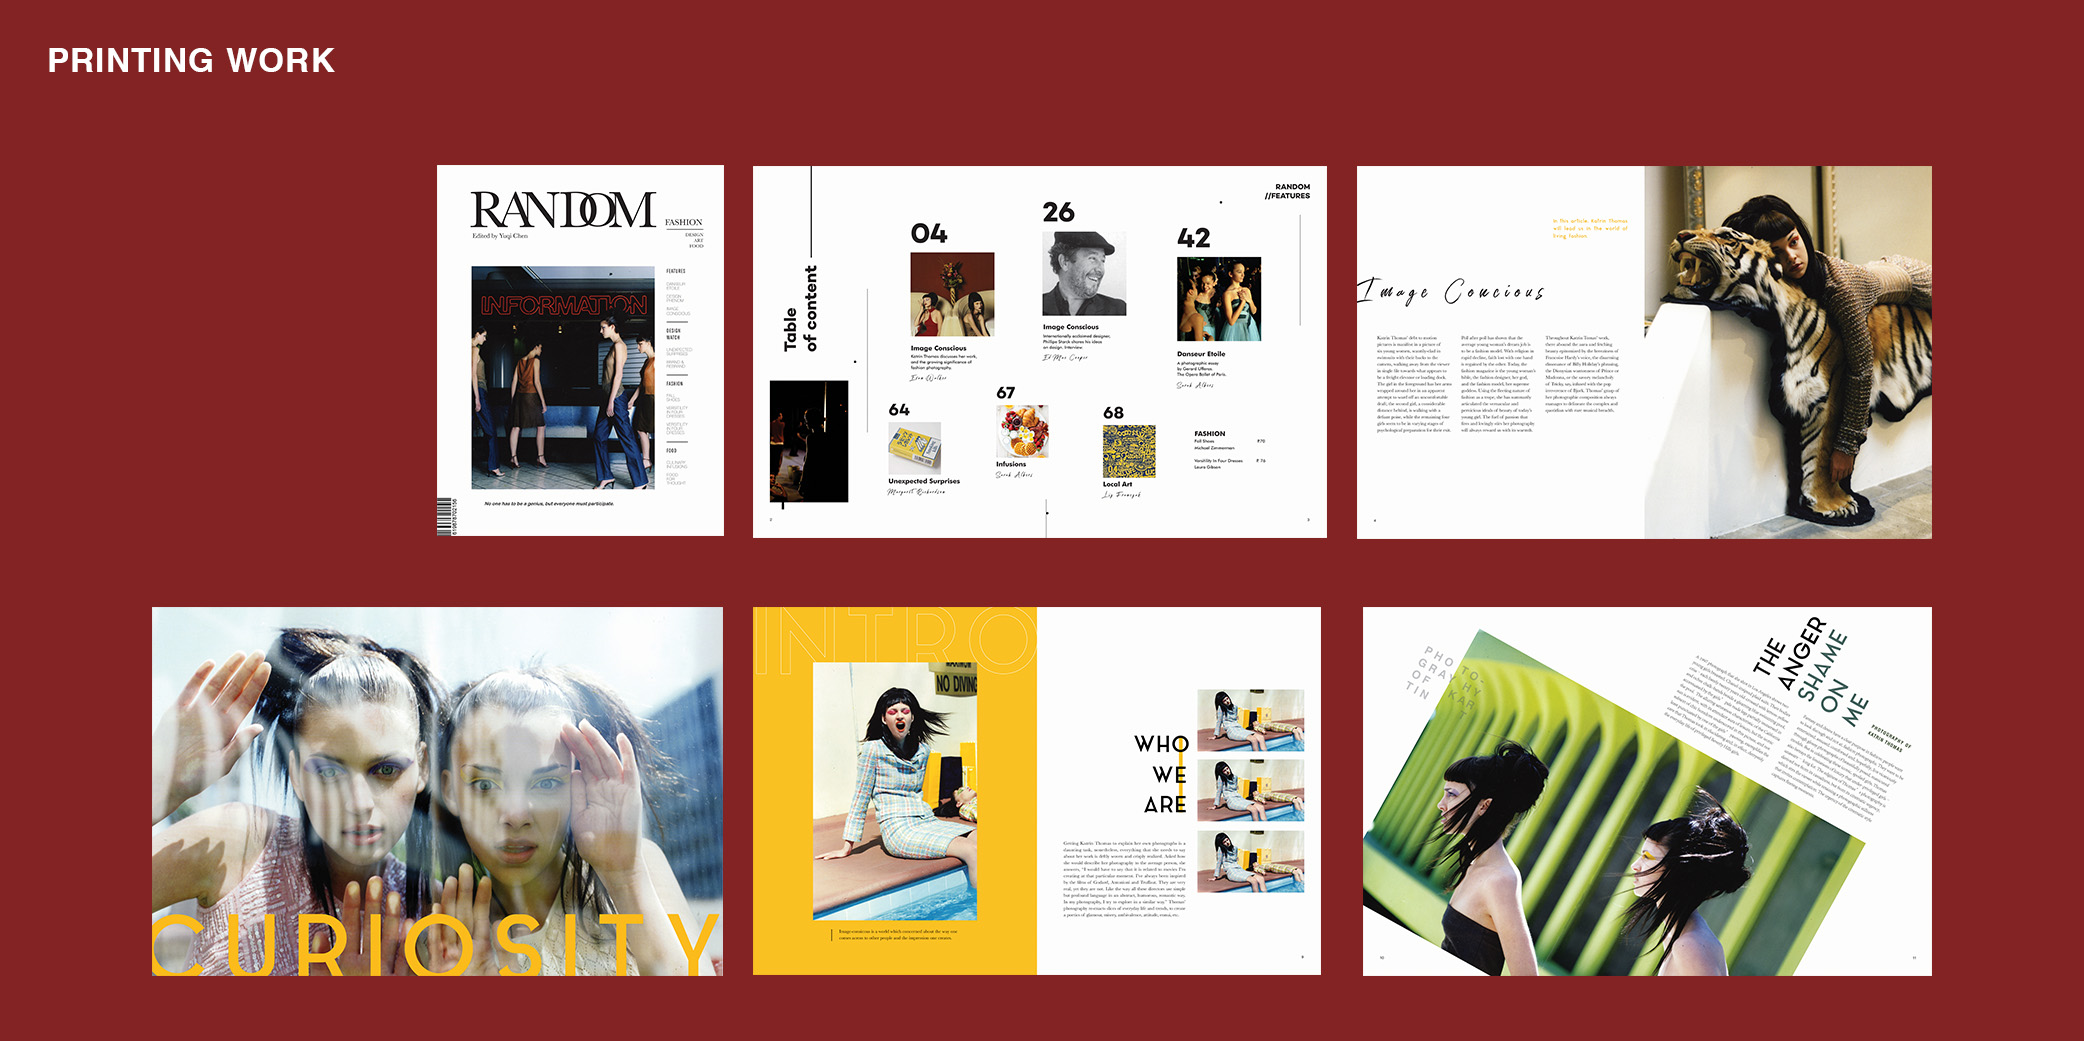
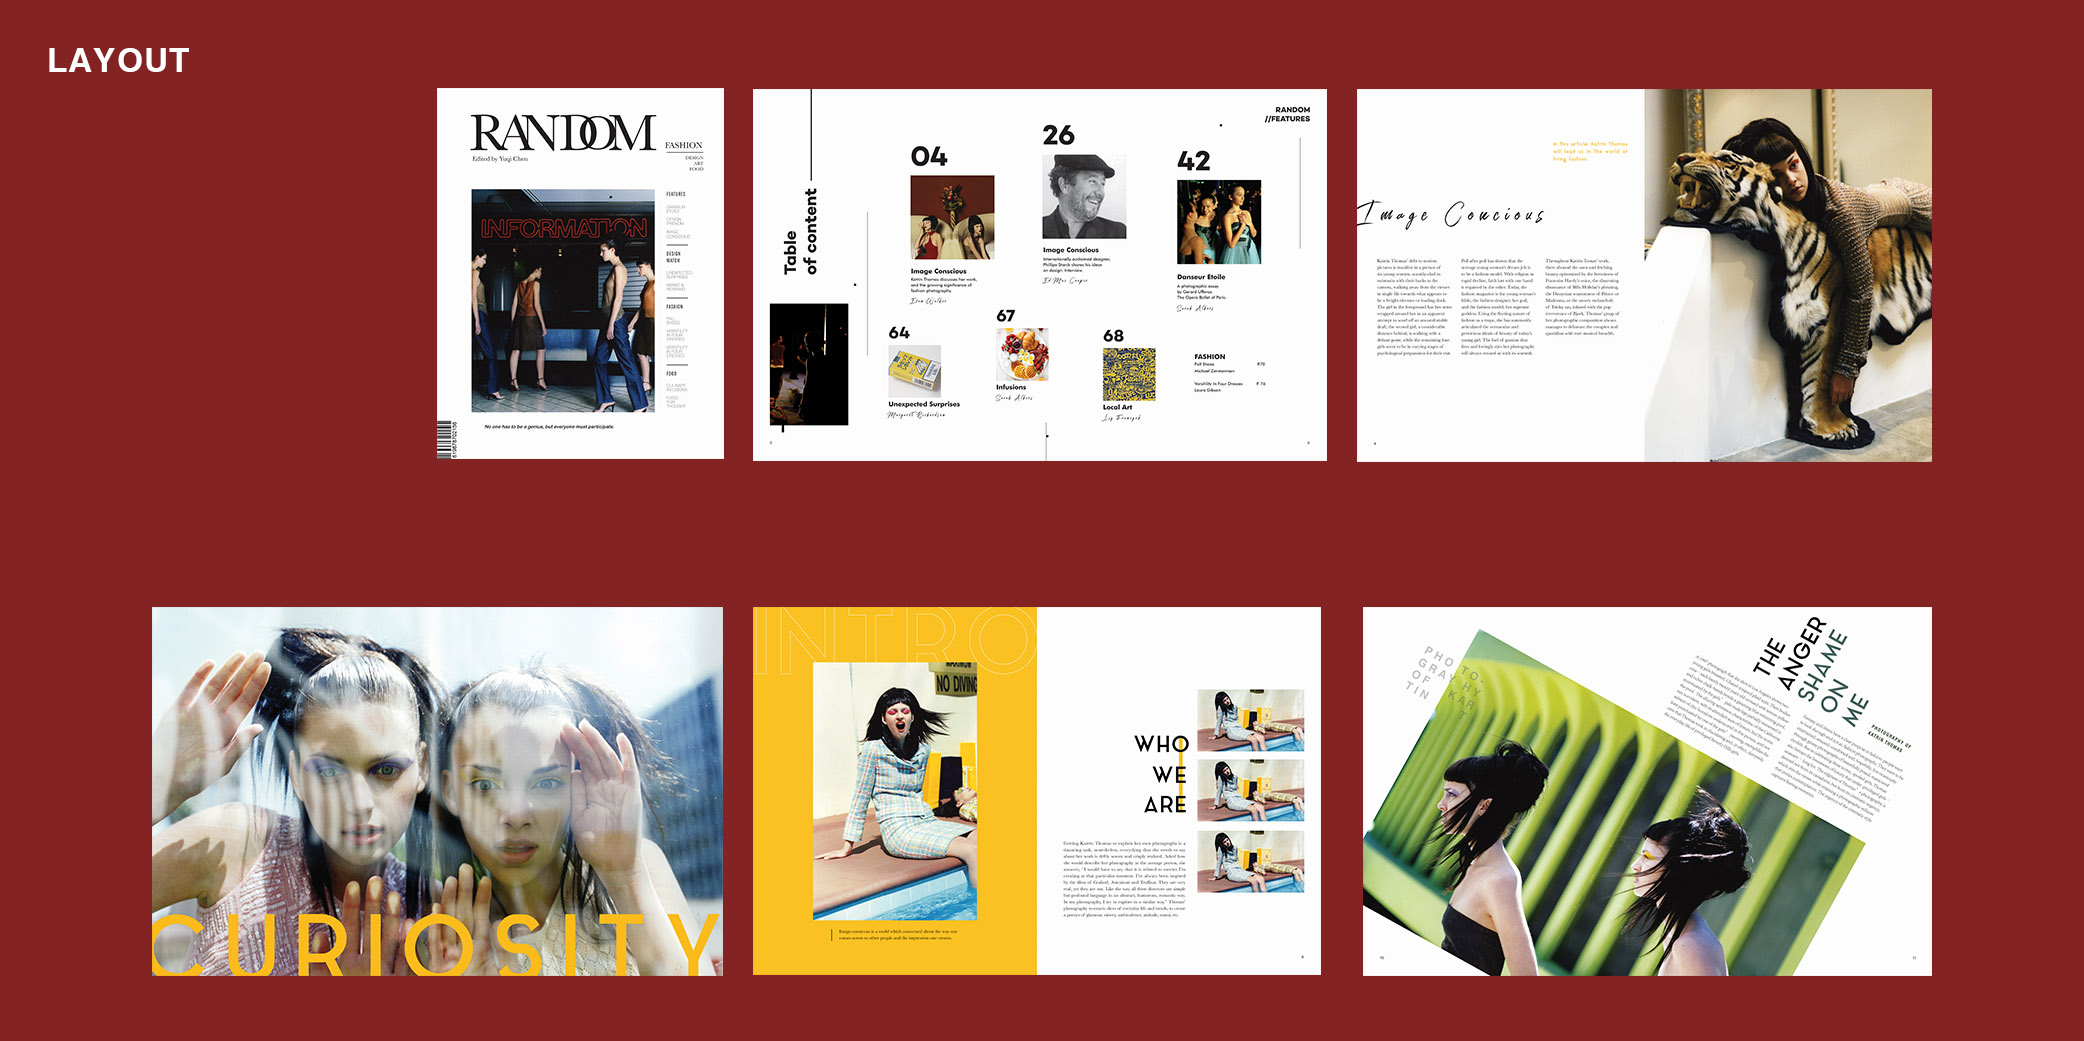
p4 finish

Changed region(s): [[0.1871, 0.0615, 0.9357, 0.5226], [0.0312, 0.0307, 0.156, 0.0922]]

diff --git a/project4.html b/project4.html
@@ -38,11 +38,13 @@
    <div id="01">
       <p class="goTop"><a href="#"><img width="25" src="img/back4.png" alt=""></a></p>
    </div>
-   <div class="section-02">
-      <img src="img/27.jpg" alt="">
-   </div>
    <div class="section-03">
       <img src="img/28.jpg" alt="">
+      <img src="img/29.jpg" alt="">
+      <img src="img/30.jpg" alt="">
+      <img src="img/31.jpg" alt="">
+      <img src="img/27.jpg" alt="">
+
    </div>
 </body>
 </html>

diff --git a/css/project4.css b/css/project4.css
@@ -87,8 +87,7 @@ a:hover img {
 }
 
 .section-03 img {
-   width: 100%;
+   width: 90%;
    height: auto;
-   margin-top: 30px;
-   margin-bottom: 20px;
+   margin-left: 30px;
 }
